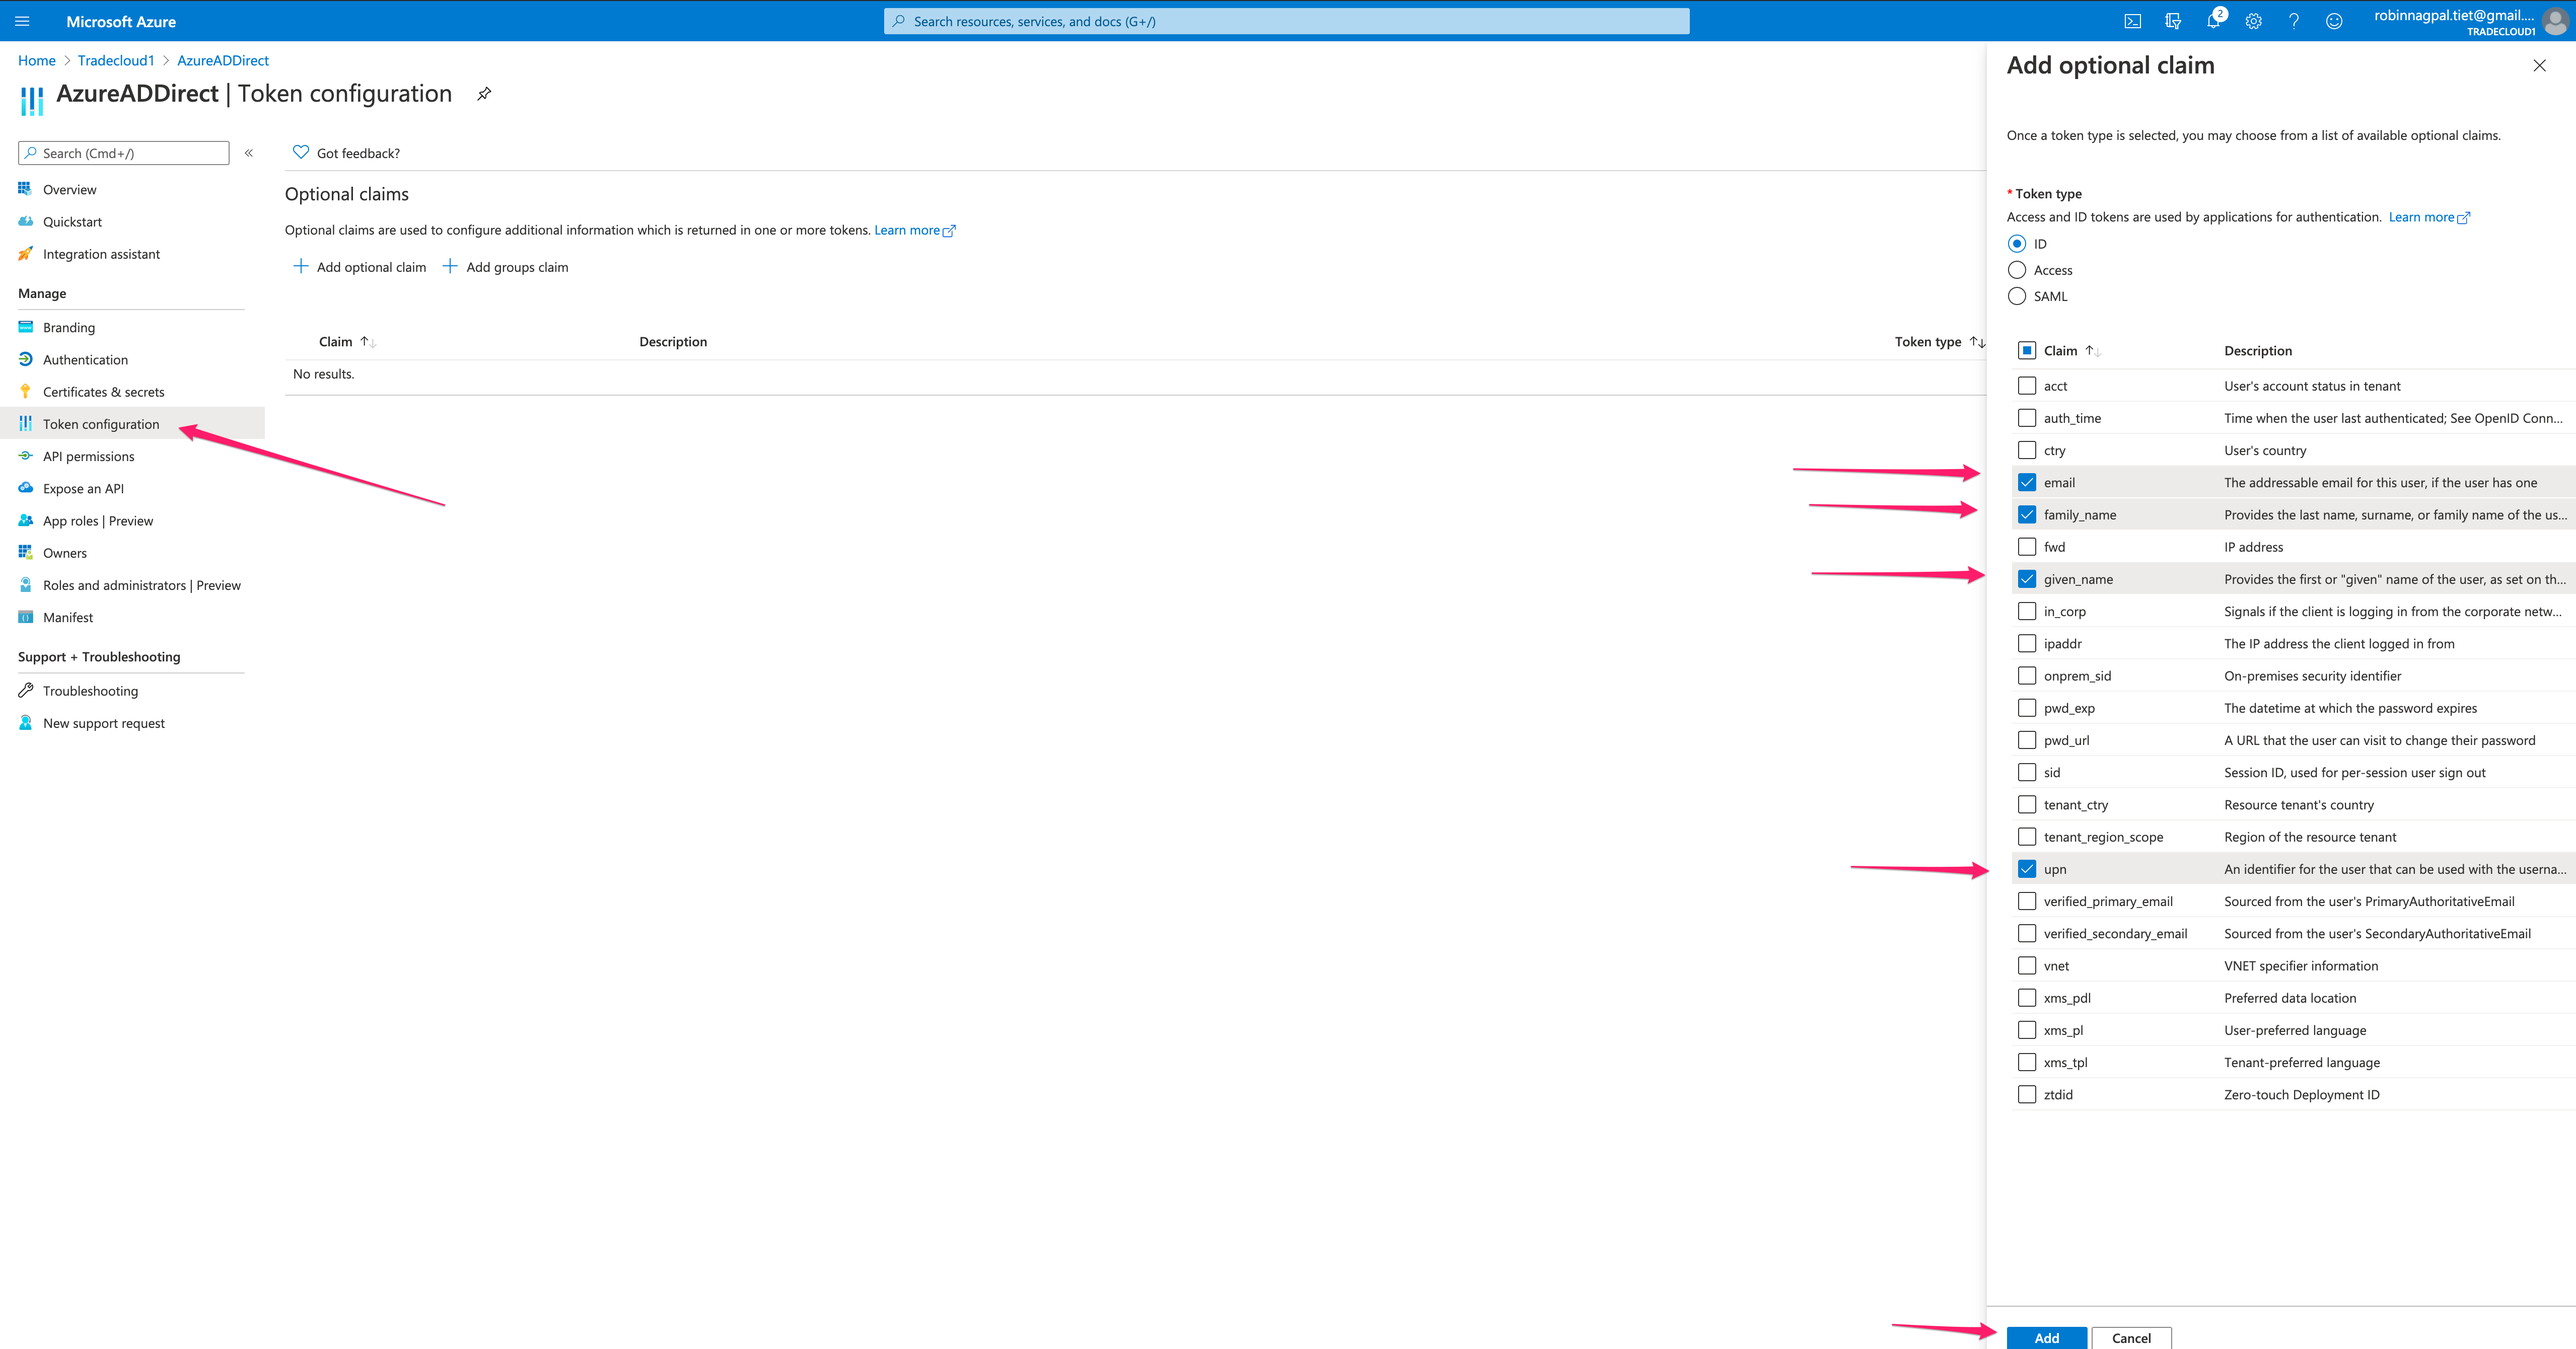
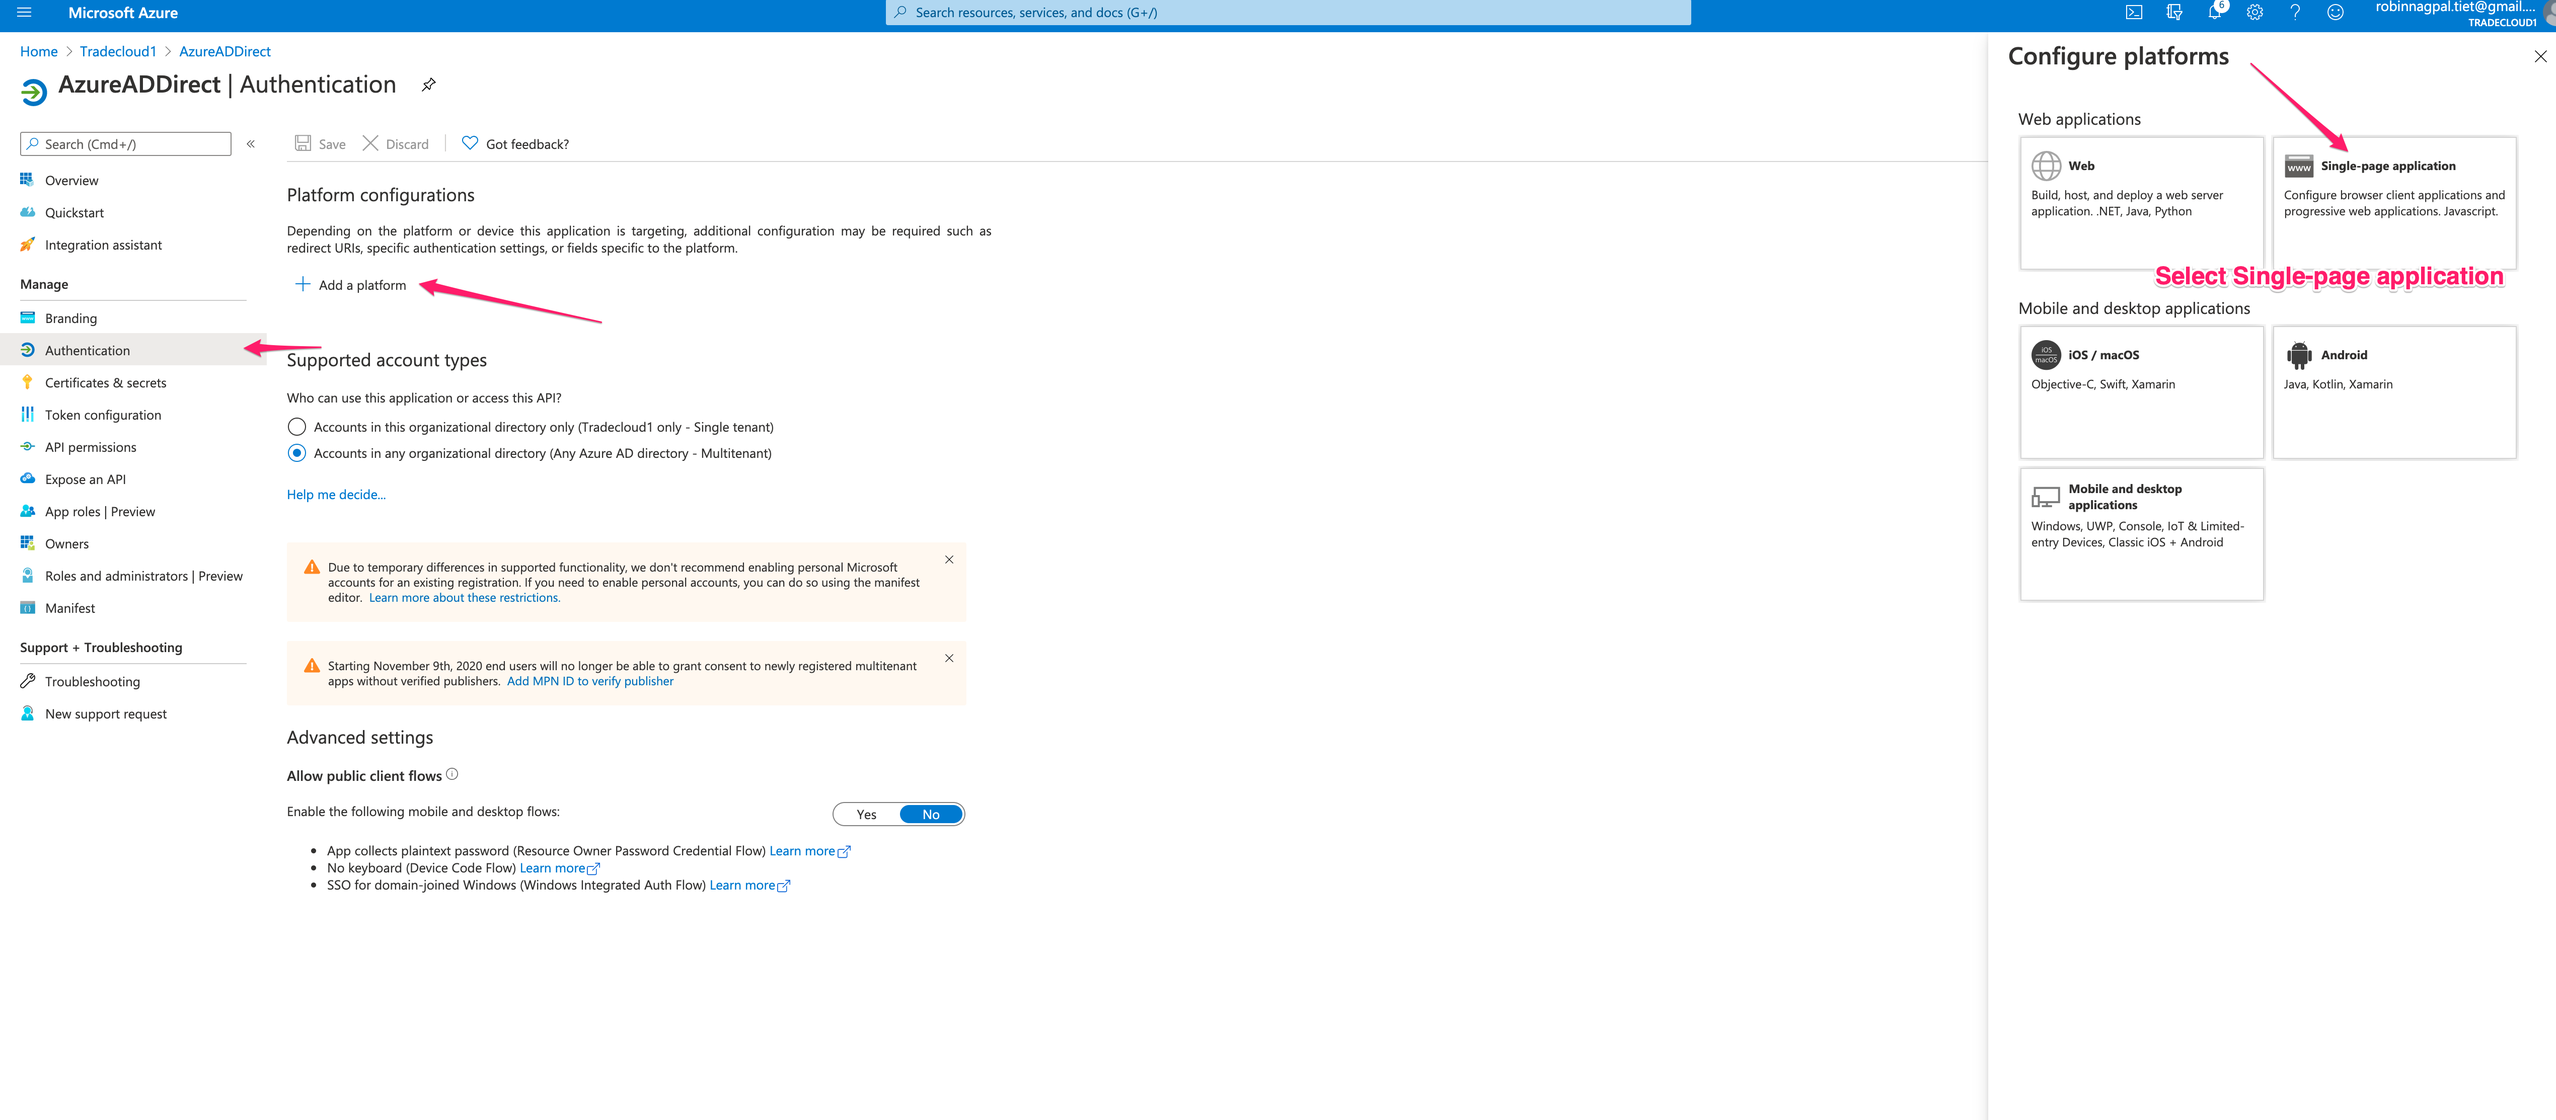
GitBook: [master] one page and 7 assets modified

diff --git a/azure-active-directory-connector/ad-config.md b/azure-active-directory-connector/ad-config.md
@@ -35,7 +35,7 @@ During this process, Microsoft generates an Application \(client\) ID; you can f
 
 We need to make sure id\_token has the required information needed by Tradecloud to create the user
 
-![](../.gitbook/assets/image%20%285%29.png)
+![](../.gitbook/assets/image%20%288%29.png)
 
 ### Add permissions
 
@@ -73,7 +73,19 @@ While setting up your permissions, configure the following settings:
 
 ![](../.gitbook/assets/image%20%284%29.png)
 
-### 
+### Set Redirect URI
+
+Select the option to set Redirect URI
+
+![](../.gitbook/assets/image%20%287%29.png)
+
+Select the platform as Single page application
+
+![](../.gitbook/assets/image%20%286%29.png)
+
+Set the Redirect Uri value to [https://tradecloud1.com/msal-callback/login](https://tradecloud1.com/msal-callback/login) and save
+
+![](../.gitbook/assets/image%20%2810%29.png)
 
 ### Send credentials to Tradecloud
 
